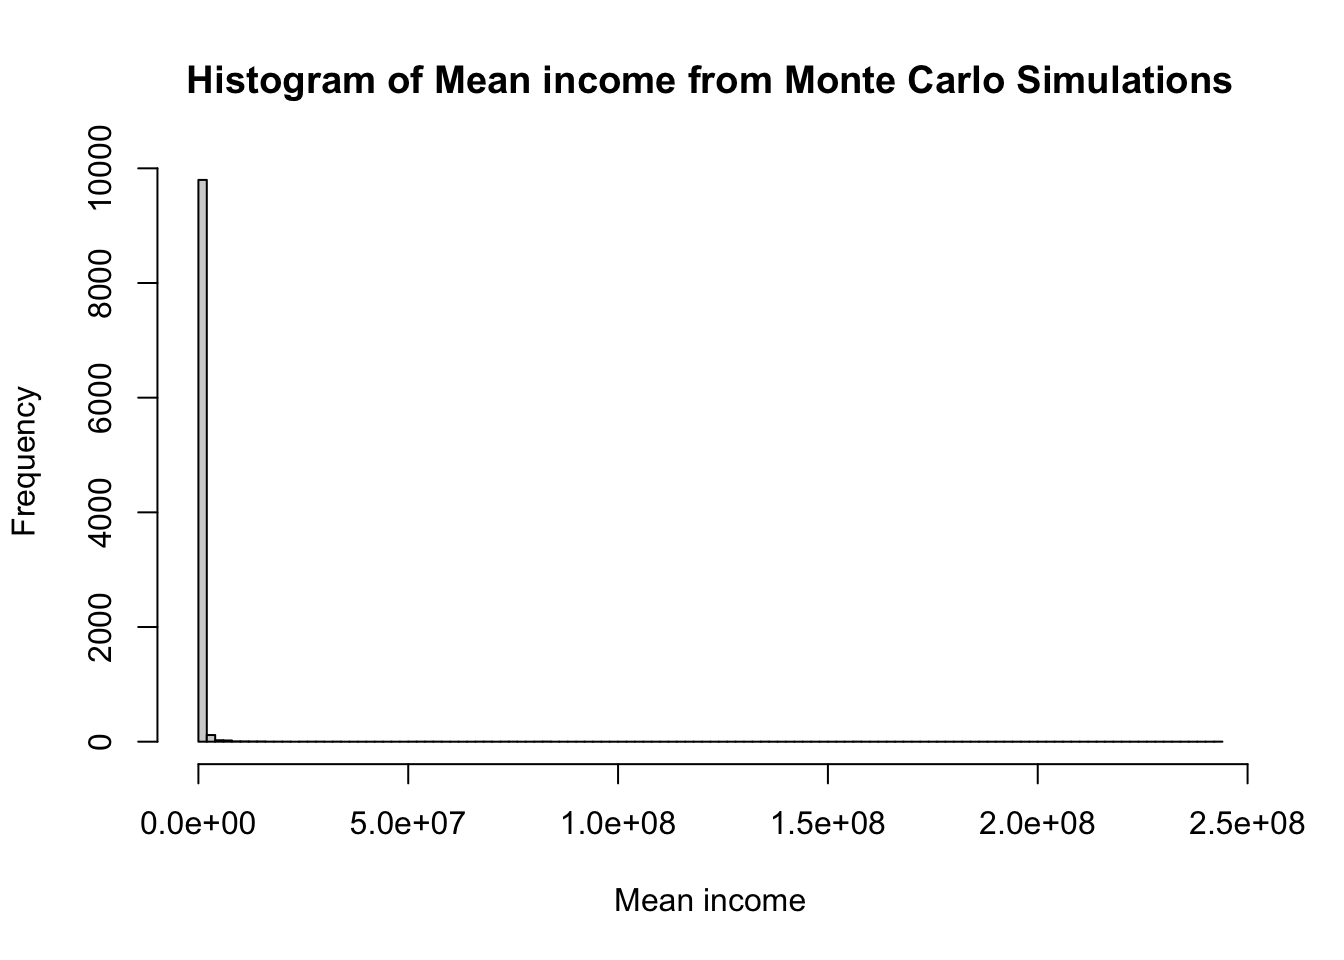
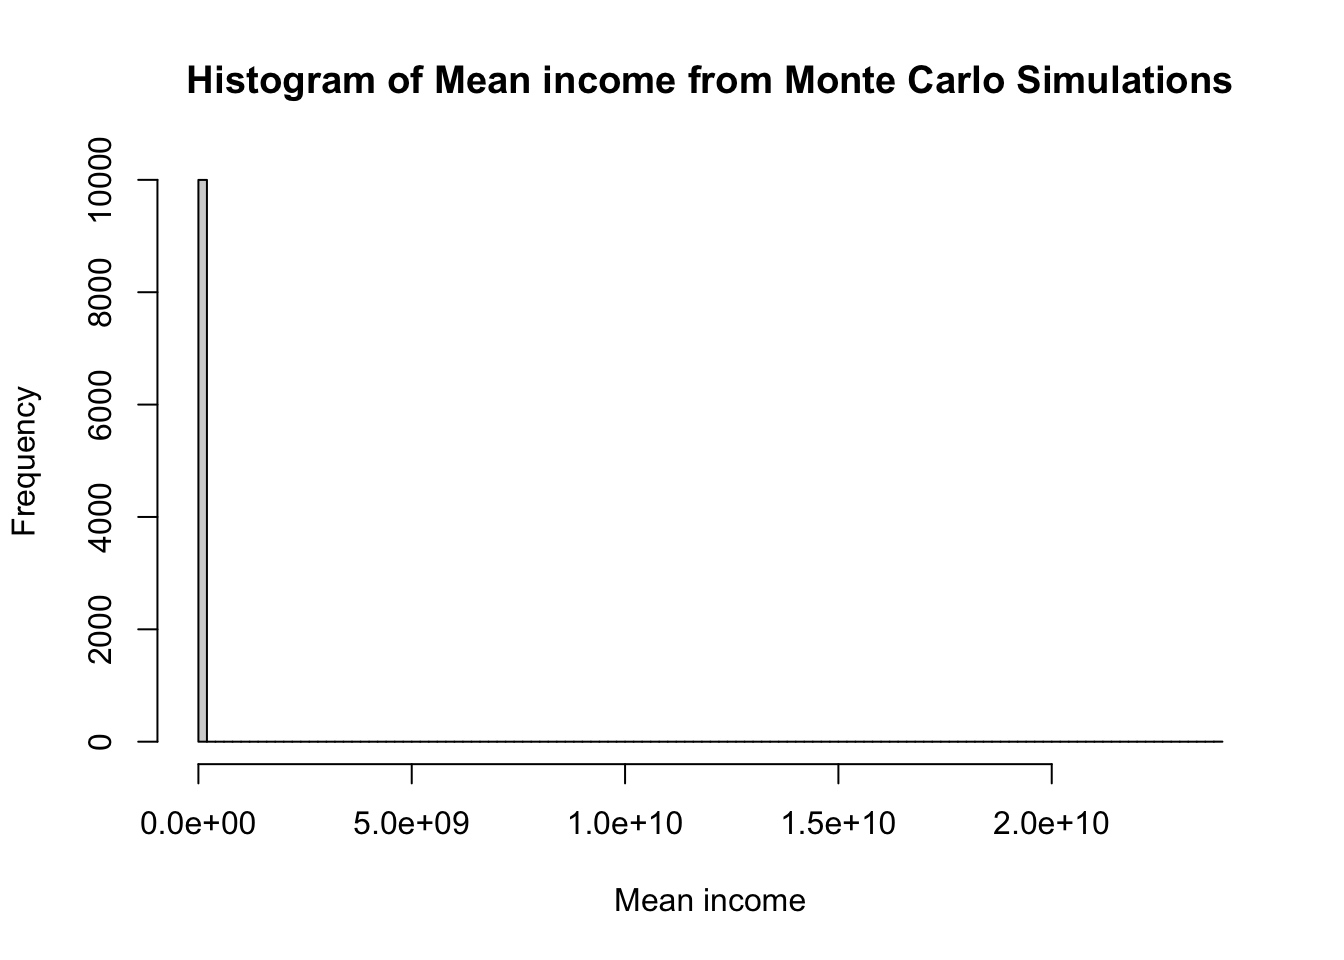
subscribe look abnormal

diff --git a/docs/posts/montecarlo.html b/docs/posts/montecarlo.html
@@ -1005,7 +1005,7 @@ Income distribution is not normal
 </details>
 <div class="cell-output cell-output-stdout">
 <pre><code>     Min.   1st Qu.    Median      Mean   3rd Qu.      Max. 
-   207736    297290    344071    626483    440706 242182325 </code></pre>
+2.194e+05 2.967e+05 3.446e+05 2.938e+06 4.350e+05 2.390e+10 </code></pre>
 </div>
 <details open="" class="code-fold">
 <summary>Code</summary>
@@ -1013,7 +1013,7 @@ Income distribution is not normal
 </details>
 <div class="cell-output cell-output-stdout">
 <pre><code>   Min. 1st Qu.  Median    Mean 3rd Qu.    Max. 
-  62059   64061   64497   64499   64927   67094 </code></pre>
+  61983   64057   64492   64500   64933   67035 </code></pre>
 </div>
 <details open="" class="code-fold">
 <summary>Code</summary>
@@ -1021,7 +1021,7 @@ Income distribution is not normal
 </details>
 <div class="cell-output cell-output-stdout">
 <pre><code>     Min.   1st Qu.    Median      Mean   3rd Qu.      Max. 
-9.306e+05 3.432e+06 5.715e+06 3.322e+07 1.217e+07 2.417e+10 </code></pre>
+1.009e+06 3.350e+06 5.662e+06 2.644e+08 1.182e+07 2.390e+12 </code></pre>
 </div>
 </div>
 </section>

diff --git a/docs/Revision notes/Diagrams/diagrams.html b/docs/Revision notes/Diagrams/diagrams.html
@@ -1285,7 +1285,7 @@ window.document.addEventListener("DOMContentLoaded", function (event) {
 </div>
   </div>
 </footer>
-<script>var lightboxQuarto = GLightbox({"loop":false,"closeEffect":"zoom","selector":".lightbox","descPosition":"bottom","openEffect":"zoom"});
+<script>var lightboxQuarto = GLightbox({"selector":".lightbox","closeEffect":"zoom","openEffect":"zoom","descPosition":"bottom","loop":false});
 window.onload = () => {
   lightboxQuarto.on('slide_before_load', (data) => {
     const { slideIndex, slideNode, slideConfig, player, trigger } = data;
